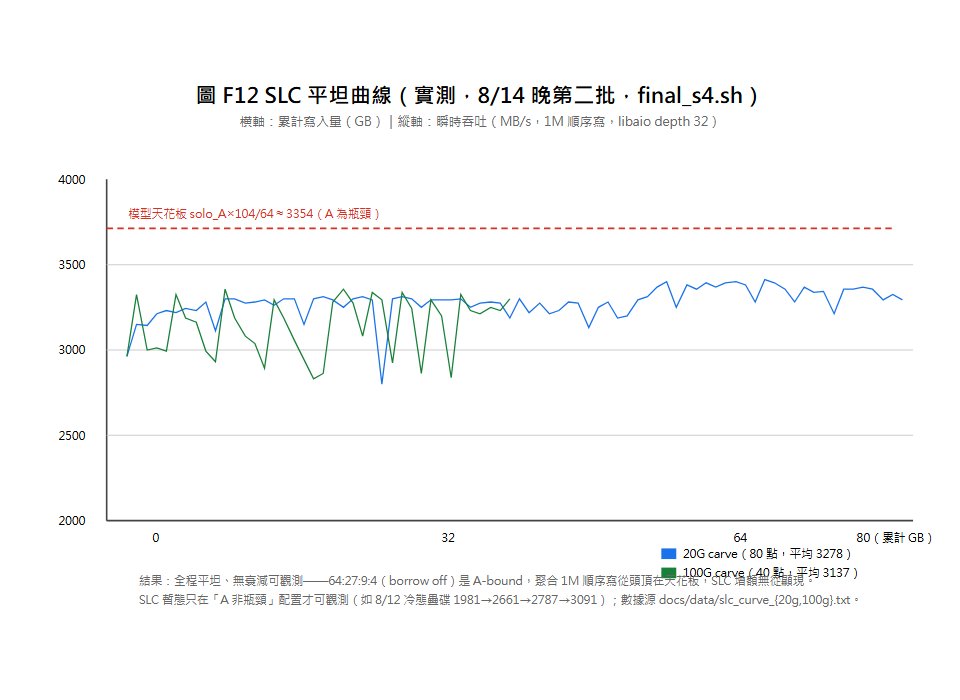
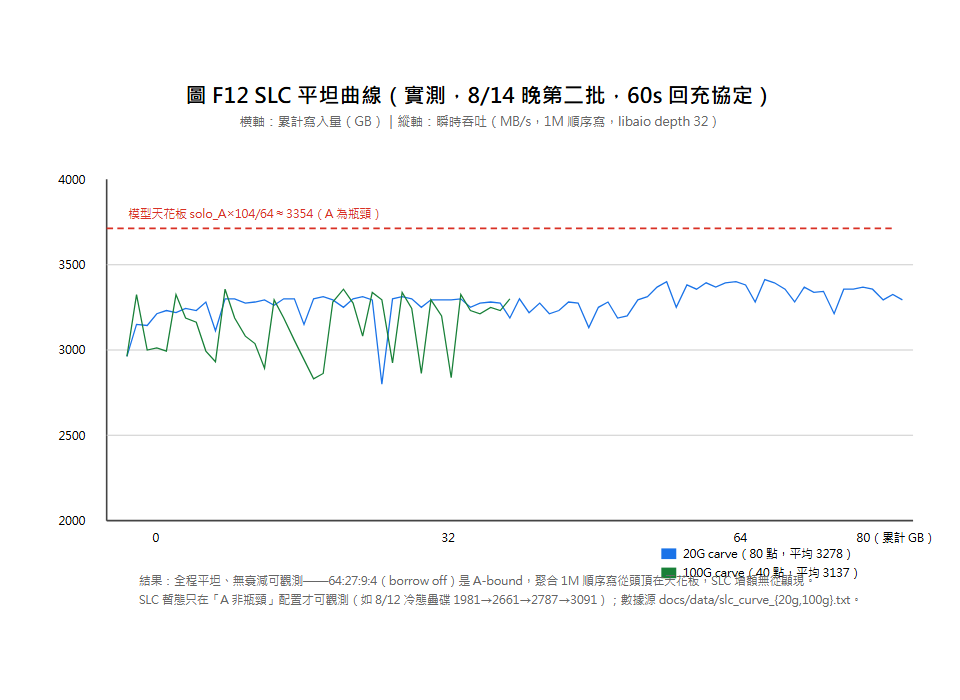
Data audit finalized: 6.3.4 S3_max -> 2064+1300=3364 (measured 3370, +0.2%); purge wrong WC 1400 -> 612 (RESULTS L474); F12 labeled as 60 s re-fill protocol (6.1.2/App. B.2/App. A.3/F12 SVG); fix F10 model bars (S1=2064/S2=3571 Ax64/37/S3=3364); 6.3.2 auto-weight table gains deviation column (-2.4/-

Changed region(s): [[0.1875, 0.12, 0.8125, 0.15]]

diff --git a/0_大綱.md b/0_大綱.md
@@ -59,7 +59,7 @@
 | 6 | DMI-aware 權重分配 | ch03 §3.3（DMI 預算） | scripts/ | ch06 §6.3 +32% 對照 |
 | 7 | 權重借調（borrow table） | ch04 §4.1 | ch05 §5.3 | ch06 §6.5 4G verify / reload |
 | 8 | 借調持久化與恢復 | ch04 §4.1 | ch05 §5.3 | ch06 §6.5 |
-| 9 | 寫入快取 WC | ch04 §4.2（-EAGAIN 繞過） | ch05 §5.4 | ch06 §6.5 4K 1400 MiB/s |
+| 9 | 寫入快取 WC | ch04 §4.2（-EAGAIN 繞過） | ch05 §5.4 | ch06 §6.5 4K 612 MiB/s |
 | 10 | 鏡像（seg0_mirror） | ch04 §4.3 | ch05 §5.5 | ch06 §6.5 M 寫 81% |
 | 11 | 重建 + rebuild_badmap | ch04 §4.3 | ch05 §5.5 | ch06 §6.5 no-hang |
 | 12 | pending-write ring | ch04 §4.4 | ch05 §5.6 | ch06 §6.2 err=0 |
@@ -105,7 +105,7 @@
 | 讀 3112 < 3899 < 4323（S4 4292 ≈ S3） | 讀取不受 DMI 寫影響 | 6698ce7 / A1 |
 | vs LVM 寫 1.9x、讀 2.0–2.4x | 對照（B@x4+D 複測，A3） | 8/14 晚 |
 | 4K 寫 LVM 1.32x | 對照（附註） | 8/13 |
-| WC 4K 1400 MiB/s | WC 小寫修復 | 8/13 |
+| WC 4K 612 MiB/s（最終 build tv_s2）、修復前 14→500 | WC 小寫修復 | 8/13 |
 | M 寫 81%（mirror 碟瓶頸）、4K COW -52%、讀 0% | 鏡像成本 | 8/13 |
 | crc32c 8G verify 0 mismatch、err=0 | 完整性 | 多輪 |
 | borrow 4G verify err=0 + reload 恢復 | 借調可靠性 | 8/13 |
@@ -238,7 +238,7 @@
 - B.1 adaptive policy -44% → 移除改借調
 - B.2 8/12 SLC 假象表 → 退休、定義三協定
 - B.3 compound page bi_size bug → rebuild_badmap 修正
-- B.4 WC 4 K 繞過條件 bug → 修復後 4K 1400 MiB/s
+- B.4 WC 4 K 繞過條件 bug → 修復後 4K 14→500 MiB/s（最終 build 612）
 - B.5 del_timer_sync 死鎖 → 改 del_timer（承重牆規則）
 - B.6 borrow_off 後小寫入帶鎖 return（sparse 抓出）→ spin_unlock 修復
 - B.7 SIGKILL 深佇列 direct I/O wedged AHCI（平台陷阱，非 driver bug）

diff --git a/附錄B_失敗與修正紀錄.md b/附錄B_失敗與修正紀錄.md
@@ -24,10 +24,10 @@
 - **修正**：定義三種量測協定（P1 排水態 / P2 冷態 / P3 冷態＋60 s 空檔，
   6.1.2），主表以 P1/P3 產出可重現數據；8/12 表退休。
 - **現況**：F12 SLC 曲線圖成為「為何要三協定」的直觀證據——8/14 晚第二批
-  實測顯示 `[64:27:9:4]`（borrow off）下曲線**全程平坦**（20G 平均 3278、
-  100G 平均 3137），因為 A-bound 使聚合寫入從頭頂在天花板、SLC 增額無從顯現；
-  相對地 8/12 冷態疊碟（A 非瓶頸）才有 1981→2661→2787→3091 的跳動。兩者
-  互補證明「排水協定消除 SLC 假象」的設計意圖（6.1.2、6.3.1）。
+  實測（**60s 回充協定**下）顯示 `[64:27:9:4]`（borrow off）下曲線**全程平坦**
+  （20G 平均 3278、100G 平均 3137），因為 A-bound 使聚合寫入從頭頂在天花板、
+  SLC 增額無從顯現；相對地 8/12 冷態疊碟（A 非瓶頸）才有 1981→2661→2787→3091
+  的跳動。兩者互補證明「排水協定消除 SLC 假象」的設計意圖（6.1.2、6.3.1）。
 
 ## B.3 rebuild_badmap 的 compound page bug
 
@@ -43,8 +43,8 @@
 - **根因**：`tieredvol_wc.c` 的緩衝條件分支有誤，小 bio（< chunk）未正確走
   `-EAGAIN` 繞過路徑，落入成本高昂的拆分流。
 - **修正**：修正緩衝條件分支，使 `bio < chunk_size` 明確繞過 WC 走直接路徑。
-- **現況**：修復後 4 K 寫入達 1400 MiB/s（6.5）；4 K 性能特性自此由「條帶化
-  拆分成本」主導（4.2.3、6.4）。
+- **現況**：修復後 4 K 寫入 14→500 MiB/s（最終 build tv_s2 為 612，6.5）；
+  4 K 性能特性自此由「條帶化拆分成本」主導（4.2.3、6.4）。
 
 ## B.5 平行寫路徑的 `del_timer_sync()` 死鎖
 

diff --git a/附錄_量測協定與配置.md b/附錄_量測協定與配置.md
@@ -110,7 +110,7 @@ segment.0.logical_end = <sectors_A_B_sizes>
 | `scripts/raw_solo.sh <dev>…` | 對每碟量 8 G 順序寫 | 各碟 solo（排水態/冷態） |
 | `scripts/auto_weight.sh` | 依 solo 窮舉（base 2..40、±1、cap 128） | 近最優權重向量 |
 | `scripts/stack_retest.sh <conf>` | 三協定量測＋計數器驗證 | 吞吐＋分布比對 |
-| `scripts/final_s4.sh` | 定案 S4 的 P1 排水態量測；排水階段逐 1 GB 記錄點 | 主表 S4 數據＋F12 平坦曲線 CSV（`docs/data/slc_curve_*.txt`） |
+| `scripts/final_s4.sh` | 定案 S4 的 P1 排水態量測；排水階段逐 1 GB 記錄點（F12 曲線資料源為 60s 回充協定，見 6.1.2） | 主表 S4 數據＋F12 平坦曲線 CSV（`docs/data/slc_curve_*.txt`） |
 | `scripts/borrow_verify.sh` | 慢碟退化＋4 G verify＋reload | 借調耐久與恢復 |
 | `scripts/rebuild_min.sh` | 最小 rebuild 流程 | 重建進度與恢復 |
 | `scripts/multi_vol_suite.sh` / `shared_ctl.sh` / `disjoint_suite.sh` | 多卷併發/共用碟/不相交碟 | 性能孤立與資源競爭 |
